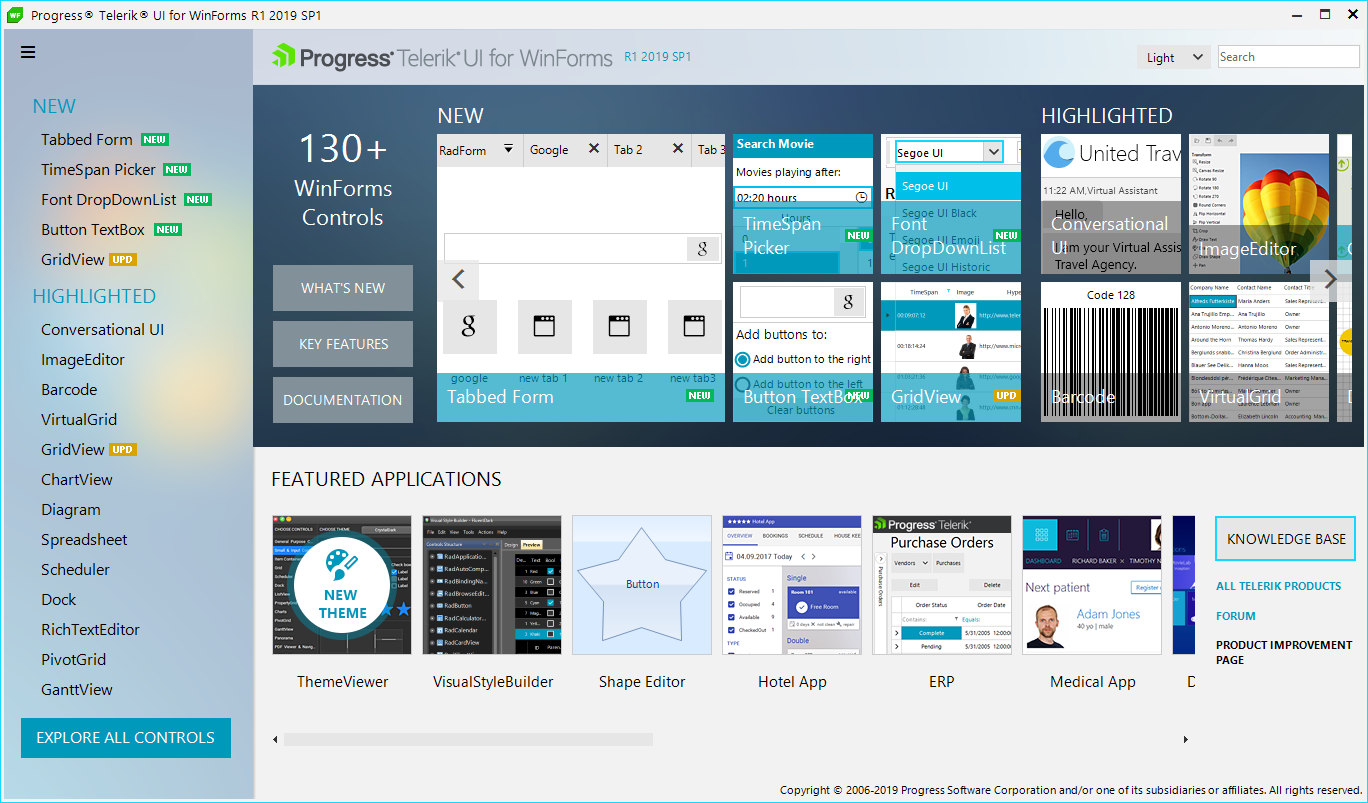
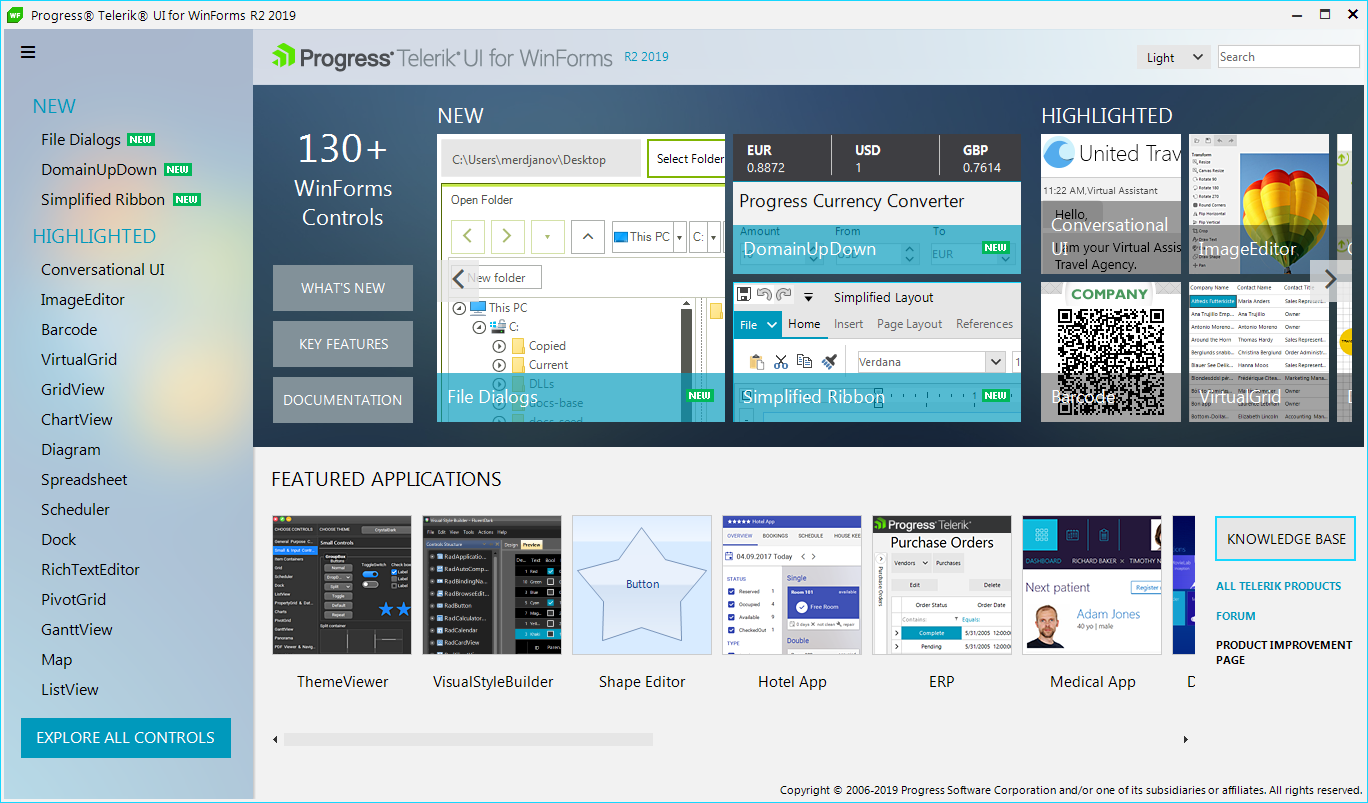
Overview image changed & added missing images for Api analyzer

diff --git a/getting-started.md b/getting-started.md
@@ -48,6 +48,7 @@ Below are listed the *Getting Started* help articles for most of the controls in
 |[RadRangeSelector]({%slug winforms/rangeselector/getting-started%})|[RadRibbonBar]({%slug winforms/ribbonbar/getting-started%})|[RadRichTextEditor]({%slug winforms/richtexteditor-/getting-started%})|[RadRotator]({%slug winforms/rotator/getting-started%})|
 |[RadSpellChecker]({%slug winforms/spellchecker/getting-started%})|[RadSplitContainer]({%slug winforms/splitcontainer/getting-started%})|[RadProgressBar]({%slug winforms/track-and-status-controls/progressbar/getting-started%})|[RadRating]({%slug winforms/track-and-status-controls/rating/getting-started%})|[RadScrollBar]({%slug winforms/track-and-status-controls/scrollbar/getting-started%})|[RadTrackBar]({%slug winforms/track-and-status-controls/trackbar/getting-started%})|[RadWaitingBar]({%slug winforms/track-and-status-controls/waitingbar/getting-started%})
 |[RadTreeView]({%slug winforms/treeview/getting-started%})|[RadVirtualGrid]({%slug winforms/virtualgrid/getting-started%})|[RadChartView]({%slug winforms/chartview/getting-started%})|[RadCheckedListBox]({%slug winforms/checkedlistbox/getting-started%})|
+[FileDialogs]({%slug winforms/file-dialogs/overview%})|[RadDomainUpDown]({%slug winforms/editors/domainupdown/overview%})
 
 
 ## Convert your existing Windows Forms applications to Telerik UI for WinForms

diff --git a/controls/pdfprocessing/overview.md b/controls/pdfprocessing/overview.md
@@ -12,7 +12,7 @@ position: 0
 
 __RadPdfProcessing__ is a processing library that allows to create, import and export PDF documents. **RadPdfProcessing** is part of the **Telerik Document Processing** libraries. The full documentation for this component is available at [https://docs.telerik.com/devtools/document-processing/libraries/radpdfprocessing](https://docs.telerik.com/devtools/document-processing/libraries/radpdfprocessing/overview).
          
-![pdf-processing-overview 001](images/pdf-processing-overview001.png)   
+![pdf-processing-overview 001](https://docs.telerik.com/devtools/document-processing/libraries/radpdfprocessing/images/RadPdfProcessing_Overview_WPF_01.PNG)   
 
 The API of RadPdfProcessing contains two different editors, enabling you to choose between editing in a flow-like manner, or using the much more powerful and flexible fixed document structure and drawing on the page.
             
